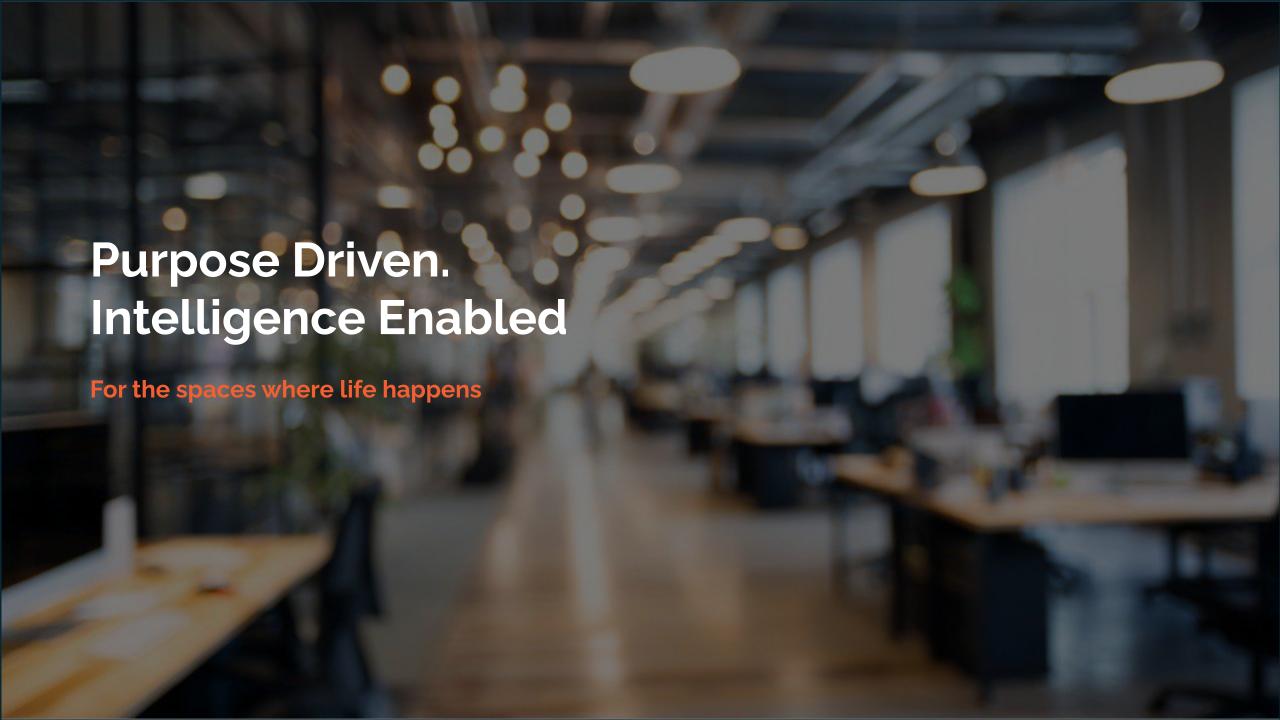
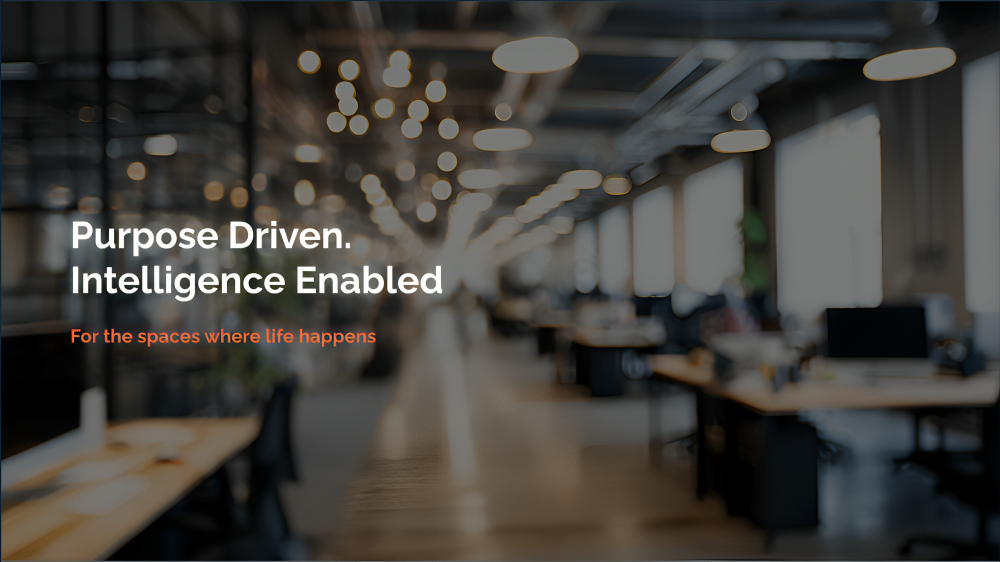
Updated About Us page

diff --git a/src/app/about-us/page.tsx b/src/app/about-us/page.tsx
@@ -10,6 +10,8 @@ import passion from "../assets/icons/passion.svg";
 import christianne from "@/app/assets/christianne.png";
 import karl from "@/app/assets/karl.png";
 import terry from "@/app/assets/terry.png";
+import jeff from "@/app/assets/jeff.png";
+import william from "@/app/assets/william.png";
 
 import { motion } from "framer-motion";
 import Profile from "../components/Profile";
@@ -22,7 +24,7 @@ export default function ResourcesPage() {
       src={aboutus}
       alt="About Us banner"
       fill
-      className="object-cover object-right"
+      className="object-cover object-[52%_42%]"
       priority
     />
   </div>
@@ -82,7 +84,7 @@ export default function ResourcesPage() {
           whileInView={{ opacity: 1, y: 0 }}
           viewport={{ once: true, amount: 0.2 }}
           transition={{ duration: 0.8, ease: "easeOut" }}
-          className="px-[10vw] py-12 space-y-6"
+          className="px-[6vw] py-12 space-y-6"
         >
           <h3 className="type-section-title-sm text-white">Core Values</h3>
 
@@ -93,7 +95,7 @@ export default function ResourcesPage() {
             </div>
             <div className="flex flex-1 flex-col">
               <div className="type-kicker text-brand-orange">Act with Integrity</div>
-              <div className="type-body text-white">We operate with transparency, trust, and accountability — in our technology, our partnerships, and our impact.</div>
+              <div className="type-body text-white">We operate with transparency, trust, and accountability—in our technology, our partnerships, and our impact.</div>
             </div>
             <div className="flex flex-1 flex-col">
               <div className="type-kicker text-brand-orange">Innovate with Intention</div>
@@ -105,7 +107,7 @@ export default function ResourcesPage() {
             </div>
             <div className="flex flex-1 flex-col">
               <div className="type-kicker text-brand-orange">Elevate the Standard</div>
-              <div className="type-body text-white">We believe indoor spaces can — and must — do more. So we build systems that set the bar higher, then continue to raise it.</div>
+              <div className="type-body text-white">We believe indoor spaces can—and must—do more. So we build systems that set the bar higher, then continue to raise it.</div>
             </div>
           </div>
         </motion.div>
@@ -117,20 +119,25 @@ export default function ResourcesPage() {
           transition={{ duration: 0.8, ease: "easeOut" }}
           className="space-y-6"
         >
-          <h2 className="type-section-title-sm text-black">Meet The Leadership</h2>
+          <div className="space-y-3">
+            <h2 className="type-lead text-brand-orange font-bold max-w-[800px] mt-12">
+              Leadership Built on Performance, Experience, and Real-World Execution
+            </h2>
+            <p className="type-body text-black">
+              InteliEQ’s leadership team brings deep expertise across building systems, sustainability, infrastructure deployment, and enterprise market development. United by a shared belief that indoor environments directly influence health, performance, and operational outcomes, the team combines strategic vision with practical execution experience. From mechanical systems integration to large-scale client partnerships, InteliEQ’s leaders are focused on delivering Environmental Intelligence solutions that perform reliably in real buildings, and create measurable impact where people live, learn, train, and recover.
+            </p>
+          </div>
+          <h2 className="type-section-title-sm text-black mt-12">Meet The Leadership</h2>
 
           <div className="grid grid-cols-1 sm:grid-cols-2 md:grid-cols-3 gap-6">
             <Profile
-              image={<Image src={christianne} alt="Christianne" width={300} height={300} className="mx-auto rounded-full object-cover" />}
+              image={<Image src={christianne} alt="Christianne" width={300} height={300} className="mx-auto rounded-full object-cover h-[300px] w-[300px] shrink-0" />}
               name="Christianne Radziewicz"
               title="CEO"
-              hoverText="Christianne Radziewicz leads the company’s mission to transform buildings into intelligent, health-optimized, energy-efficient ecosystems that actively protect the people inside them.
-With over two decades across the built-environment ecosystem, Christianne has driven business growth, advanced sustainability strategies, and aligned architects, engineers, and technical teams around high-performance outcomes. At InteliEQ, she bridges environmental science, product innovation, and strategic execution to deliver systems that move beyond reactive solutions toward measurable, real-time performance.
-Beyond InteliEQ, she is restoring a historic 1810 farm, a living expression of her belief that environments shape how we live, work and thrive.
-"
+              hoverText="Christianne Radziewicz leads InteliEQ’s mission to transform buildings into intelligent, health-optimized, and energy-efficient environments that actively protect the people inside them. With more than two decades of experience across the built-environment ecosystem, she has driven business growth, advanced sustainability strategies, and aligned architects, engineers, and technical teams around high-performance outcomes. At InteliEQ, Christianne bridges environmental science, product innovation, and strategic execution to deliver solutions that move beyond reactive building systems toward measurable, real-time performance. Her leadership is focused on redefining how indoor environments are understood, managed, and optimized at scale, positioning Environmental Intelligence as a new layer of critical building infrastructure. A former Division I collegiate athlete, Christianne, brings a performance-driven mindset to leadership, grounded in teamwork, discipline, and the belief that environments play a critical role in human potential."
             />
             <Profile
-              image={<Image src={karl} alt="Karl" width={300} height={300} className="mx-auto rounded-full object-cover" />}
+              image={<Image src={karl} alt="Karl" width={300} height={300} className="mx-auto rounded-full object-cover h-[300px] w-[300px] shrink-0" />}
               name="Karl Selander"
               title="CTO"
               hoverText="Karl Selander is the architect of the intelligence system behind the company’s environmental systems. A systems thinker grounded in engineering rigor, he designs technologies that allow buildings to sense, interpret and respond in real time.
@@ -139,13 +146,37 @@ Outside the lab, Karl can be found exploring the outdoors with his family, deep-
 "
             />
             <Profile
-              image={<Image src={terry} alt="Terry" width={300} height={300} className="mx-auto rounded-full object-cover" />}
+              image={<Image src={terry} alt="Terry" width={300} height={300} className="mx-auto rounded-full object-cover h-[300px] w-[300px] shrink-0" />}
               name="Terry Zarnowski"
               title="Executive Leader | Hardware Automation & IoT Systems"
               hoverText="Terry Zarnowski brings entrepreneurial leadership and operational scale to InteliEQ. Over three decades, he has built and led technology-driven companies from startup innovation to multimillion-dollar global operations, delivering advanced automation and sensing systems to Fortune 500 clients.
 His expertise spans P&L leadership, global sales and distribution, advanced manufacturing, IoT platforms, and intelligent sensing technologies. A patent holder and published contributor in robotics and image sensing, Terry is known for transforming complex engineering into commercially scalable systems.
 At InteliEQ, he ensures environmental intelligence is not only visionary, but manufacturable, deployable, and built to scale. Outside of work, he is a dedicated brewmaster, applying the same precision and craftsmanship to brewing as he does to engineering.
 "
+            />
+            <Profile
+              image={<Image src={jeff} alt="Jeff Miller" width={300} height={300} className="mx-auto rounded-full object-cover object-[50%_30%] h-[300px] w-[300px] shrink-0" />}
+              name="Jeff Miller"
+              title="Head of Building Systems & Deployment"
+              hoverText="Jeff Miller brings decades of hands-on experience in commercial and residential HVAC systems, building performance, and mechanical operations. As Head of Building Systems & Deployment at InteliEQ, he leads the practical integration of Symphony-iQ into complex real-world environments, ensuring seamless deployment, system compatibility, and operational reliability across diverse building types. Prior to joining InteliEQ, Jeff founded and successfully operated a full-service HVAC company serving clients throughout the greater New York City region. His work spanned system design, installation, troubleshooting, retrofit strategy, and long-term facility support, giving him deep insight into how buildings perform beyond design intent. At InteliEQ, Jeff plays a critical role in bridging advanced environmental intelligence technology with the realities of mechanical infrastructure. He works closely with facilities teams, engineers, and deployment partners to optimize performance outcomes, accelerate pilot implementation, and support scalable portfolio rollouts. His leadership ensures that InteliEQ’s solutions not only innovate but deliver dependable results where they matter most."
+            />
+
+            <Profile
+              image={
+                <div className="mx-auto h-[300px] w-[300px] rounded-full bg-gray-300 flex items-center justify-center text-4xl font-semibold text-gray-700">
+                  JM
+                </div>
+              }
+              name="Joseph McLaughlin"
+              title="VP of Business Development & Client Services"
+              hoverText="Joseph McLaughlin brings more than two decades of experience building trusted relationships across both public and private sector organizations. As Vice President of Business Development & Client Services at InteliEQ, he leads strategic engagement with clients and partners to accelerate the adoption of Environmental Intelligence solutions that improve building performance, occupant health, and energy efficiency. Throughout his career, Joe has helped organizations navigate complex infrastructure and sustainability initiatives, aligning operational needs with long-term performance outcomes. His work has focused on developing integrated solutions that reduce energy waste, support decarbonization goals, and deliver measurable value across diverse facility portfolios. Joe plays a key role in expanding InteliEQ’s presence in high-performance environments, including athletic facilities where health, recovery, and environmental conditions directly influence human performance. A former collegiate athlete, he brings personal insight into the importance of optimized indoor environments and remains closely connected to youth athletics, often traveling with his daughter to competitive volleyball tournaments. His leadership helps ensure InteliEQ’s clients experience not only innovative technology, but a trusted partnership focused on real-world results."
+            />
+
+            <Profile
+              image={<Image src={william} alt="William Hatch" width={300} height={300} className="mx-auto rounded-full object-cover h-[300px] w-[300px] shrink-0" />}
+              name="William Hatch"
+              title="Director of Software Engineering"
+              hoverText="William Hatch brings more than 20 years of experience in software development spanning AI-driven applications, web and mobile platforms, DevOps infrastructure, big data systems, and Internet of Things (IoT) technologies. As Director of Software Engineering at InteliEQ, he leads the design and development of the digital intelligence layer that enables real-time environmental monitoring, predictive insights, and scalable deployment across diverse building portfolios. Throughout his career, William has built and delivered complex software solutions that connect physical systems with actionable data, transforming how organizations understand performance and make operational decisions. At InteliEQ, he is responsible for advancing the company’s unified intelligence platform, ensuring reliability, adaptability, and meaningful user insight across evolving environmental conditions. Beyond his technical leadership, William is a dedicated musician and an advocate for environmental stewardship. He is deeply motivated by the opportunity to apply technology in ways that create positive, measurable changes, helping organizations operate more sustainably while improving the health and performance of the spaces people depend on every day."
             />
           </div>
         </motion.div>
